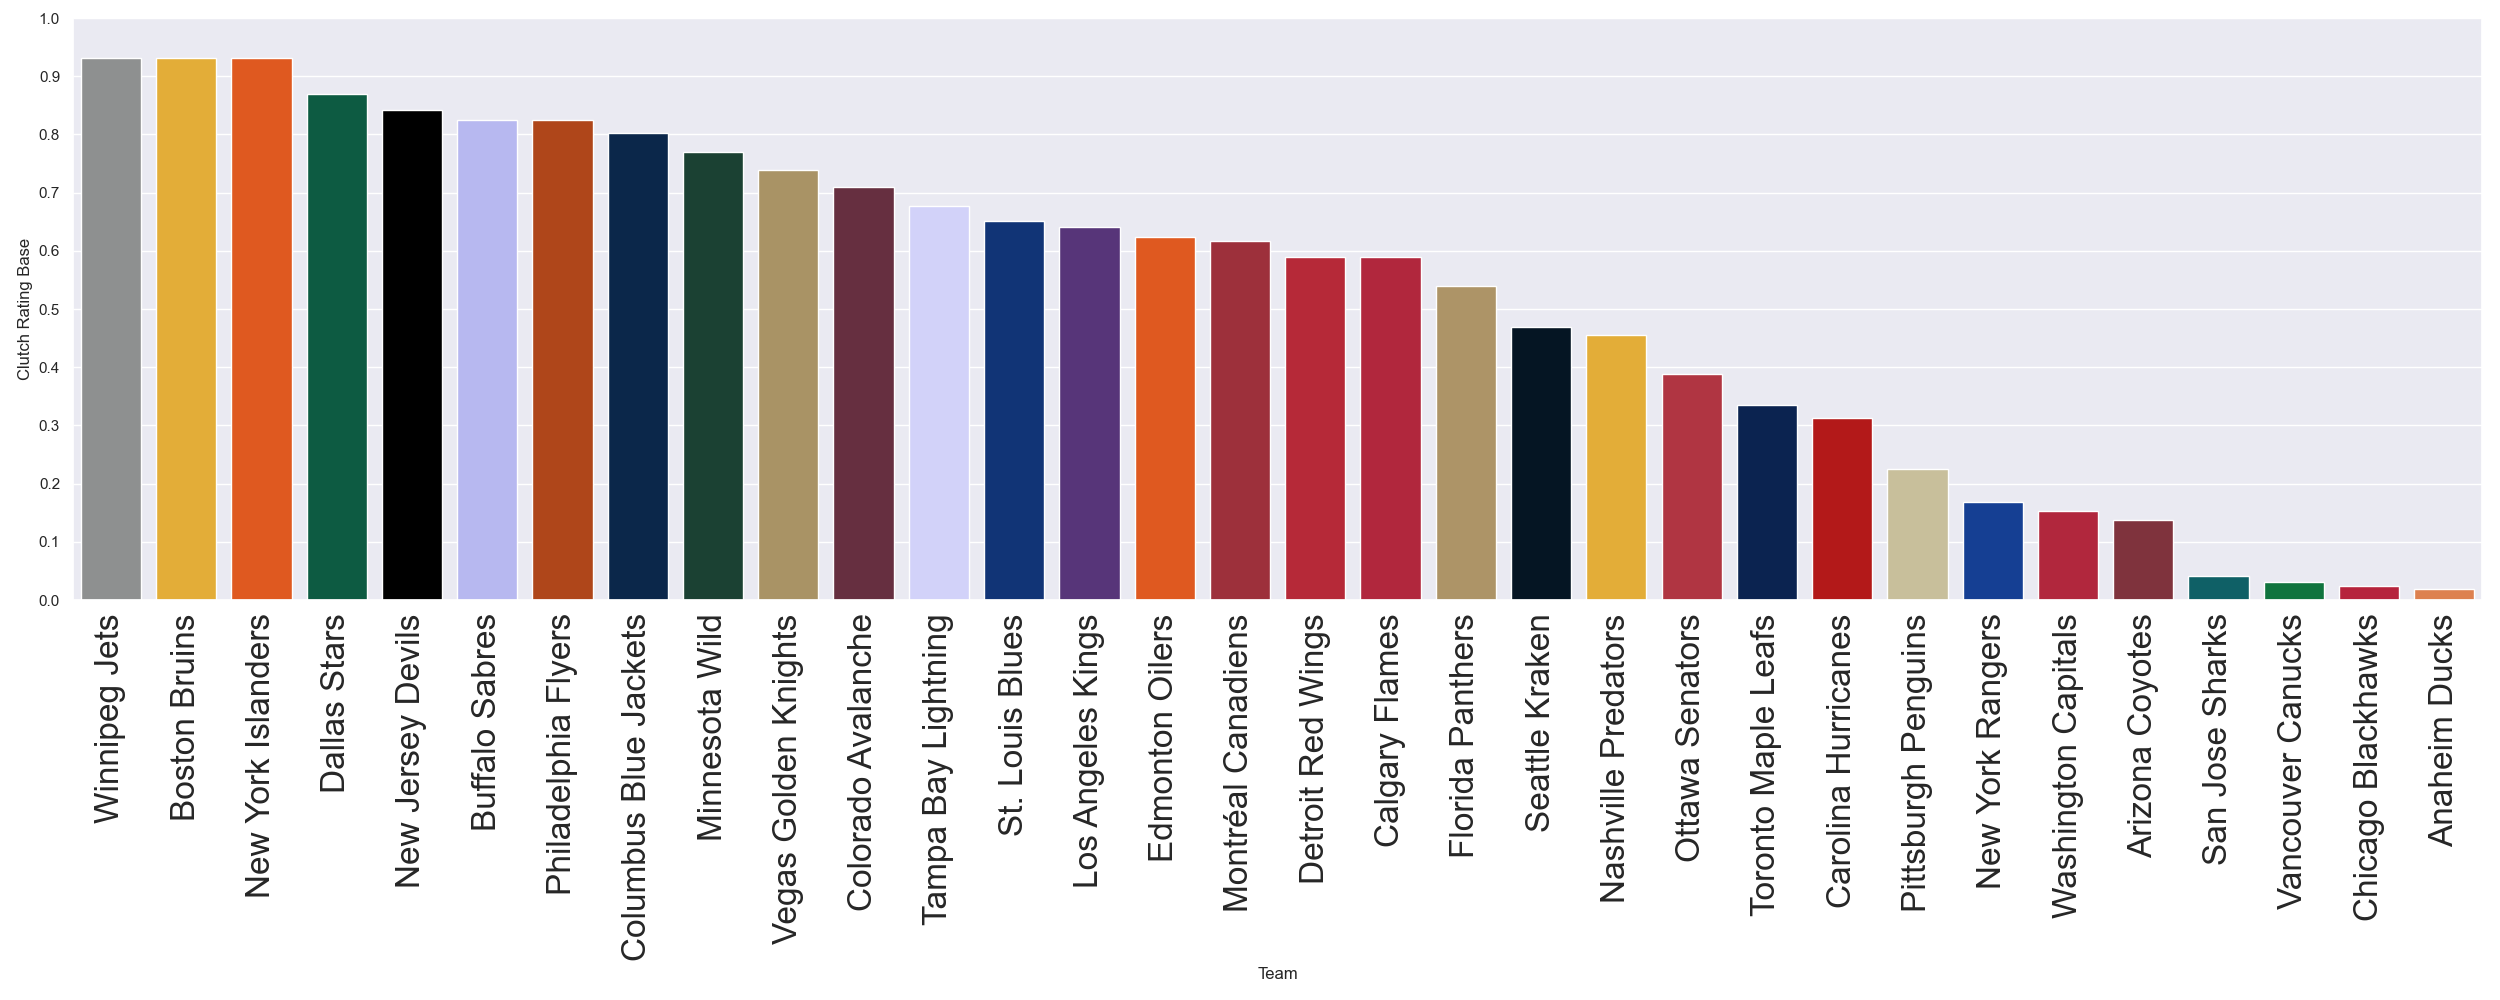
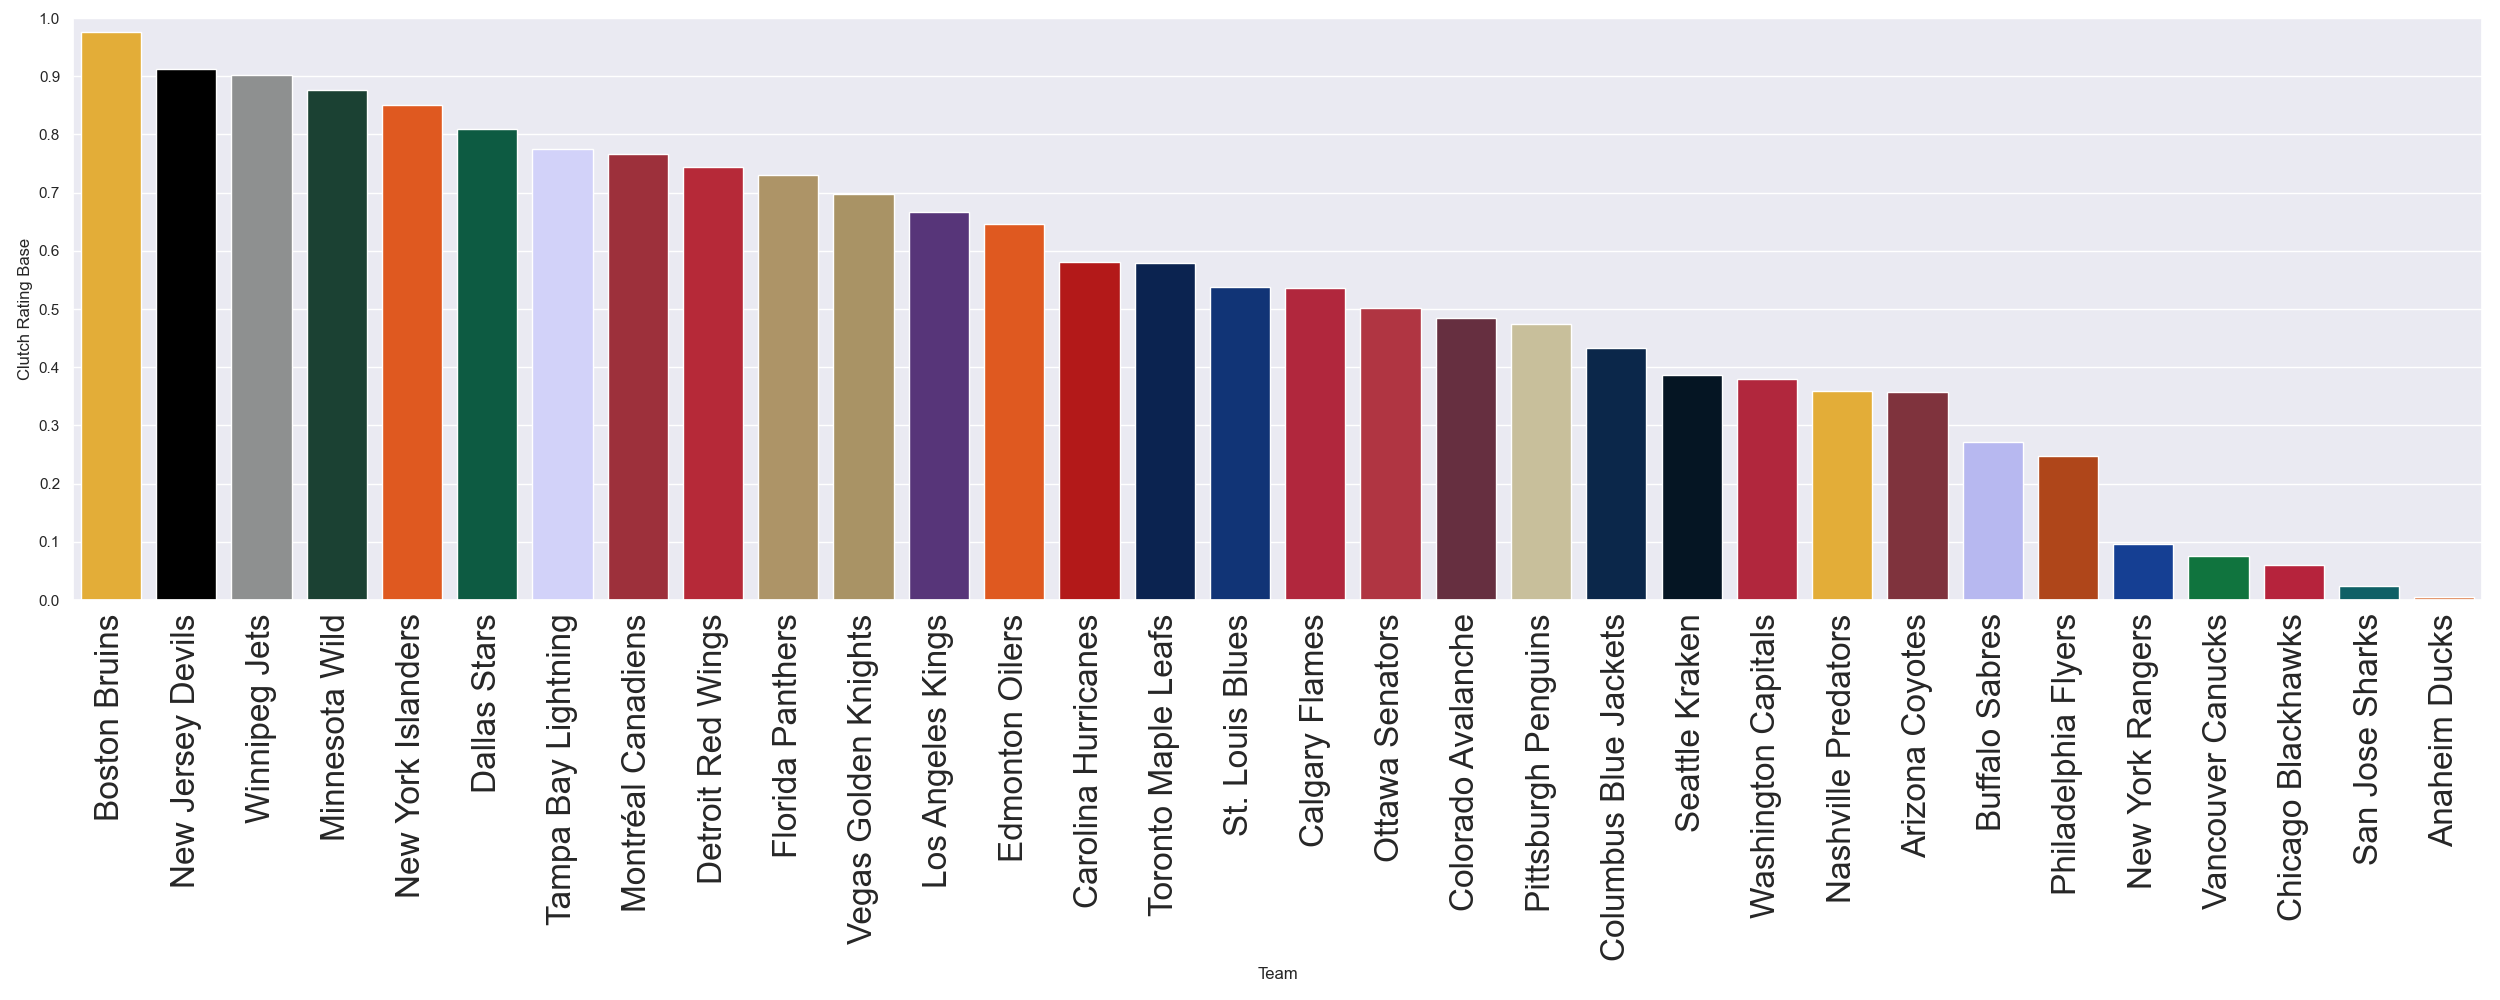
Add clutch rating back in to Team stats

Changed region(s): [[0.0312, 0.031, 0.9984, 0.961]]

diff --git a/Team_Metrics/Clutch.py b/Team_Metrics/Clutch.py
@@ -41,34 +41,148 @@ def clutch_rating_get_dict() -> dict:
     return clutch_rating
 
 
-def clutch_lead_protection_get_data() -> dict:
+def clutch_get_lead_data(match_data : dict={}) -> dict:
     
-    # Get the top level record from the API
-    records_url = \
-        'https://statsapi.web.nhl.com/api/v1/teams?expand=team.stats'
-    web_data = requests.get(records_url)
-    parsed_data = json.loads(web_data.content)
+    # loop through the lines of file
+    win_lead_first = {
+        'Anaheim Ducks' : [0,0],
+        'Arizona Coyotes' : [0,0],
+        'Boston Bruins' : [0,0],
+        'Buffalo Sabres' : [0,0],
+        'Calgary Flames' : [0,0],
+        'Carolina Hurricanes' : [0,0],
+        'Chicago Blackhawks' : [0,0],
+        'Colorado Avalanche' : [0,0],
+        'Columbus Blue Jackets' : [0,0],
+        'Dallas Stars' : [0,0],
+        'Detroit Red Wings' : [0,0],
+        'Edmonton Oilers' : [0,0],
+        'Florida Panthers' : [0,0],
+        'Los Angeles Kings' : [0,0],
+        'Minnesota Wild' : [0,0],
+        'Montréal Canadiens' : [0,0],
+        'Nashville Predators' : [0,0],
+        'New Jersey Devils' : [0,0],
+        'New York Islanders' : [0,0],
+        'New York Rangers' : [0,0],
+        'Ottawa Senators' : [0,0],
+        'Philadelphia Flyers' : [0,0],
+        'Pittsburgh Penguins' : [0,0],
+        'San Jose Sharks' : [0,0],
+        'Seattle Kraken' : [0,0],
+        'St. Louis Blues' : [0,0],
+        'Tampa Bay Lightning' : [0,0],
+        'Toronto Maple Leafs' : [0,0],
+        'Vancouver Canucks' : [0,0],
+        'Vegas Golden Knights' : [0,0],
+        'Washington Capitals' : [0,0],
+        'Winnipeg Jets' : [0,0],
+    }
+    win_lead_second = {
+        'Anaheim Ducks' : [0,0],
+        'Arizona Coyotes' : [0,0],
+        'Boston Bruins' : [0,0],
+        'Buffalo Sabres' : [0,0],
+        'Calgary Flames' : [0,0],
+        'Carolina Hurricanes' : [0,0],
+        'Chicago Blackhawks' : [0,0],
+        'Colorado Avalanche' : [0,0],
+        'Columbus Blue Jackets' : [0,0],
+        'Dallas Stars' : [0,0],
+        'Detroit Red Wings' : [0,0],
+        'Edmonton Oilers' : [0,0],
+        'Florida Panthers' : [0,0],
+        'Los Angeles Kings' : [0,0],
+        'Minnesota Wild' : [0,0],
+        'Montréal Canadiens' : [0,0],
+        'Nashville Predators' : [0,0],
+        'New Jersey Devils' : [0,0],
+        'New York Islanders' : [0,0],
+        'New York Rangers' : [0,0],
+        'Ottawa Senators' : [0,0],
+        'Philadelphia Flyers' : [0,0],
+        'Pittsburgh Penguins' : [0,0],
+        'San Jose Sharks' : [0,0],
+        'Seattle Kraken' : [0,0],
+        'St. Louis Blues' : [0,0],
+        'Tampa Bay Lightning' : [0,0],
+        'Toronto Maple Leafs' : [0,0],
+        'Vancouver Canucks' : [0,0],
+        'Vegas Golden Knights' : [0,0],
+        'Washington Capitals' : [0,0],
+        'Winnipeg Jets' : [0,0],
+    }
+    for date in match_data.keys():
+        for game in match_data[date]:
 
-    # place the requried data into a dictionary for later use
-    lead_protection_data = {}
-    for team in parsed_data["teams"]:
-        win_lead_first = team["teamStats"][0]["splits"][0]["stat"][
-            "winLeadFirstPer"]
-        win_lead_second = team["teamStats"][0]["splits"][0]["stat"][
-            "winLeadSecondPer"]
-        lead_protection_data[
-            team["teamStats"][0]["splits"][0]["team"]["name"]] = \
-                [win_lead_first, win_lead_second]
-    return lead_protection_data
+            # away team data
+            away_team = game["teams"]["away"]["team"]["name"]
+            away_score_first = game["linescore"]["periods"][0]["away"]["goals"]
+            away_score_second = \
+                game["linescore"]["periods"][1]["away"]["goals"] + \
+                away_score_first
+            away_score_final = game["teams"]["away"]["score"]
+
+            # home team data
+            home_team = game["teams"]["home"]["team"]["name"]
+            home_score_first = game["linescore"]["periods"][0]["home"]["goals"]
+            home_score_second = \
+                game["linescore"]["periods"][1]["home"]["goals"] + \
+                home_score_first
+            home_score_final = game["teams"]["home"]["score"]
+
+            # determine who was leading after one period
+            if away_score_first > home_score_first:
+                if away_score_final > home_score_final:
+                    win_lead_first[away_team][0] += 1
+                    win_lead_first[away_team][1] += 1
+                else:
+                    win_lead_first[away_team][1] += 1
+            else:
+                if home_score_final > away_score_final:
+                    win_lead_first[home_team][0] += 1
+                    win_lead_first[home_team][1] += 1
+                else:
+                    win_lead_first[home_team][1] += 1
+            
+            # now do the same for the second period
+            if away_score_second > home_score_second:
+                if away_score_final > home_score_final:
+                    win_lead_second[away_team][0] += 1
+                    win_lead_second[away_team][1] += 1
+                else:
+                    win_lead_second[away_team][1] += 1
+            else:
+                if home_score_final > away_score_final:
+                    win_lead_second[home_team][0] += 1
+                    win_lead_second[home_team][1] += 1
+                else:
+                    win_lead_second[home_team][1] += 1
 
 
-def clutch_calculate_lead_protection() -> None:
-    lead_protection_data = clutch_lead_protection_get_data()
+    # collect all the different permutations into one data set and return
+    clutch_lead_data = {}
+    for team in win_lead_first.keys():
+        clutch_lead_data[team] = [win_lead_first[team], win_lead_second[team]]
+    return clutch_lead_data
+
+
+def clutch_calculate_lead_protection(match_data : dict={}) -> None:
+    lead_protection_data = clutch_get_lead_data(match_data)
     for team in lead_protection_data.keys():
 
-        # reassign the data values just to make it easier to use
-        win_lead_1 = float(lead_protection_data[team][0])
-        win_lead_2 = float(lead_protection_data[team][1])
-        
-        # calculate the positive clutch portion based on keeping leads
-        clutch_rating[team] += (win_lead_1 * 5) + (win_lead_2 * 10)
+        # win protection first period
+        if lead_protection_data[team][0][1] == 0:
+            win_lead_first_per = 0.0
+        else:
+            win_lead_first_per = lead_protection_data[team][0][0] / \
+                lead_protection_data[team][0][1]
+
+        # lead protection second period
+        if lead_protection_data[team][1][1] == 0:
+            win_lead_second_per = 0.0
+        else:
+            win_lead_second_per = lead_protection_data[team][1][0] / \
+                lead_protection_data[team][1][1]
+
+        clutch_rating[team] += (win_lead_first_per) + (win_lead_second_per  * 2)

diff --git a/TeamEngine.py b/TeamEngine.py
@@ -16,7 +16,7 @@ from Worker_Nodes import plotter_worker
 # import all custom modules for statistical analysis
 from Team_Metrics.Strength_of_Schedule import strength_of_schedule_get_dict, \
     strength_of_schedule_calculate
-from Team_Metrics.Win_Rating import win_rating_get_dict, win_rating_calc
+from Team_Metrics.Win_Rating import win_rating_get_dict, win_rating_calculate
 from Team_Metrics.Offensive_Rating import offensive_rating_get_data_set, \
     offensive_rating_get_dict, offensive_rating_combine_metrics
 from Team_Metrics.Defensive_Rating import defensive_rating_get_data_set, \
@@ -177,7 +177,7 @@ def calculate_strenght_of_schedule(update_trends : bool=True) -> None:
 def calculate_win_rating(update_trends : bool=True) -> None:
 
     # calculate the win rating and graph
-    win_rating_calc(team_season_records)
+    win_rating_calculate(team_season_records)
     write_out_file("Output_Files/Team_Files/Instance_Files/WinRating.csv",
         ["Team", "Win Rating Base"], win_rating_get_dict())
     team_engine_plotting_queue.put((plot_data_set,
@@ -198,7 +198,7 @@ def calculate_win_rating(update_trends : bool=True) -> None:
 def calculate_clutch_rating(update_trends : bool=True) -> None:
 
     # first calculate the positive part of the clutch rating
-    clutch_calculate_lead_protection()
+    clutch_calculate_lead_protection(season_matches)
 
     # finally combine the factors, write out, and plot
     apply_sigmoid_correction(clutch_rating_get_dict())
@@ -508,8 +508,8 @@ if __name__ == "__main__":
     print("Win Rating")
     calculate_win_rating(UPDATE_TRENDS)
 
-    # print("Clutch Rating") CURRENTLY BEING REVIEWED
-    # calculate_clutch_rating(UPDATE_TRENDS)
+    print("Clutch Rating")
+    calculate_clutch_rating(UPDATE_TRENDS)
 
     print("Offensive Rating")
     calculate_offensive_rating(UPDATE_TRENDS)

diff --git a/Team_Metrics/Strength_of_Schedule.py b/Team_Metrics/Strength_of_Schedule.py
@@ -136,9 +136,9 @@ def read_matches(average_rankings : dict={}, ranking_dates : list=[],
             game_date = datetime.date(int(date_str[0]), int(date_str[1]),
                 int(date_str[2]))
             away_team = game["teams"]["away"]["team"]["name"]
-            away_score = int(game["teams"]["away"]["score"])
+            away_score = game["teams"]["away"]["score"]
             home_team = game["teams"]["home"]["team"]["name"]
-            home_score = int(game["teams"]["home"]["score"])
+            home_score = game["teams"]["home"]["score"]
             extra_time = game["linescore"]["currentPeriodOrdinal"]
 
             # fill out a 3ple with the winner and loser of the game as well as

diff --git a/Team_Metrics/Win_Rating.py b/Team_Metrics/Win_Rating.py
@@ -68,7 +68,7 @@ def win_rating_get_data(team_records : dict={}) -> dict:
     return win_rating_data
 
 
-def win_rating_calc(team_records : dict={}) -> None:
+def win_rating_calculate(team_records : dict={}) -> None:
     win_record_data = win_rating_get_data(team_records)
     for team in win_rating.keys():
 

diff --git a/Weights.py b/Weights.py
@@ -41,8 +41,8 @@ VERSION_MINOR = 4
 
 
 class total_rating_weights(Enum):
-    WIN_RATING_WEIGHT = 0.30
-    CLUTCH_RATING_WEIGHT = 0.00
+    WIN_RATING_WEIGHT = 0.25
+    CLUTCH_RATING_WEIGHT = 0.05
     FORM_RATING_WEIGHT = 0.10
     SOS_RATING_WEIGHT = 0.25
     OFFENSIVE_RATING_WEIGHT = 0.15
